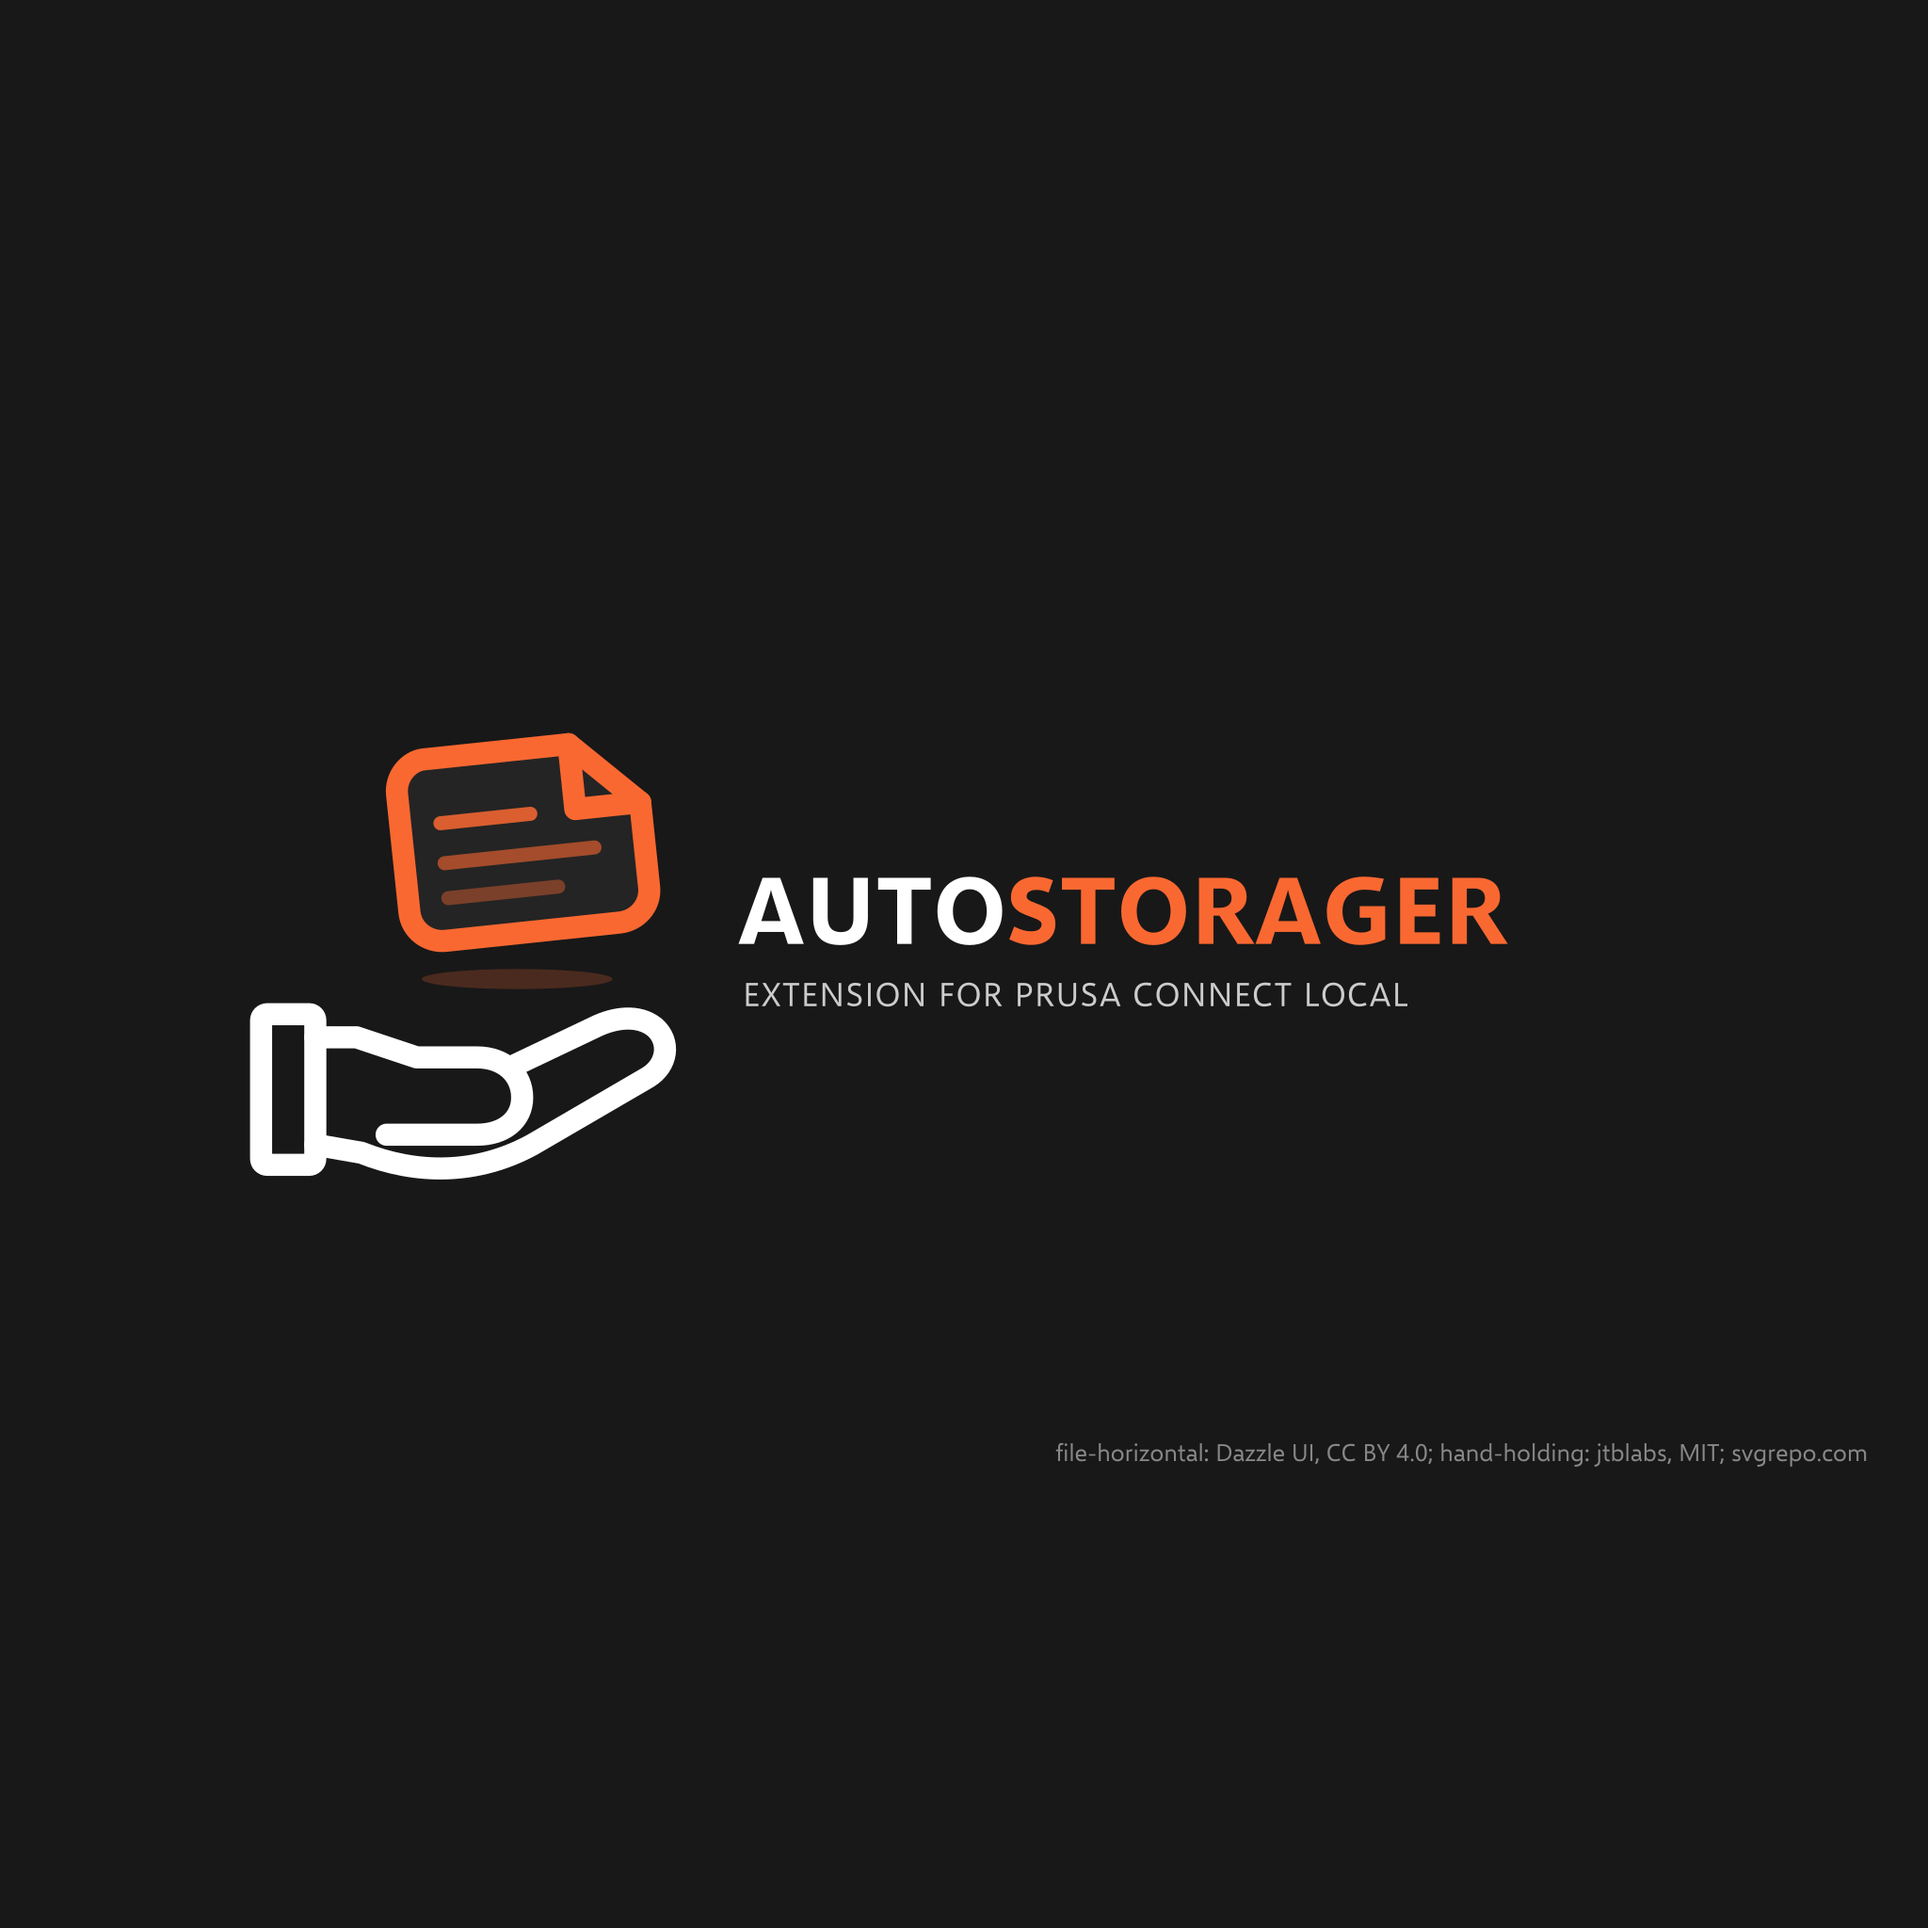
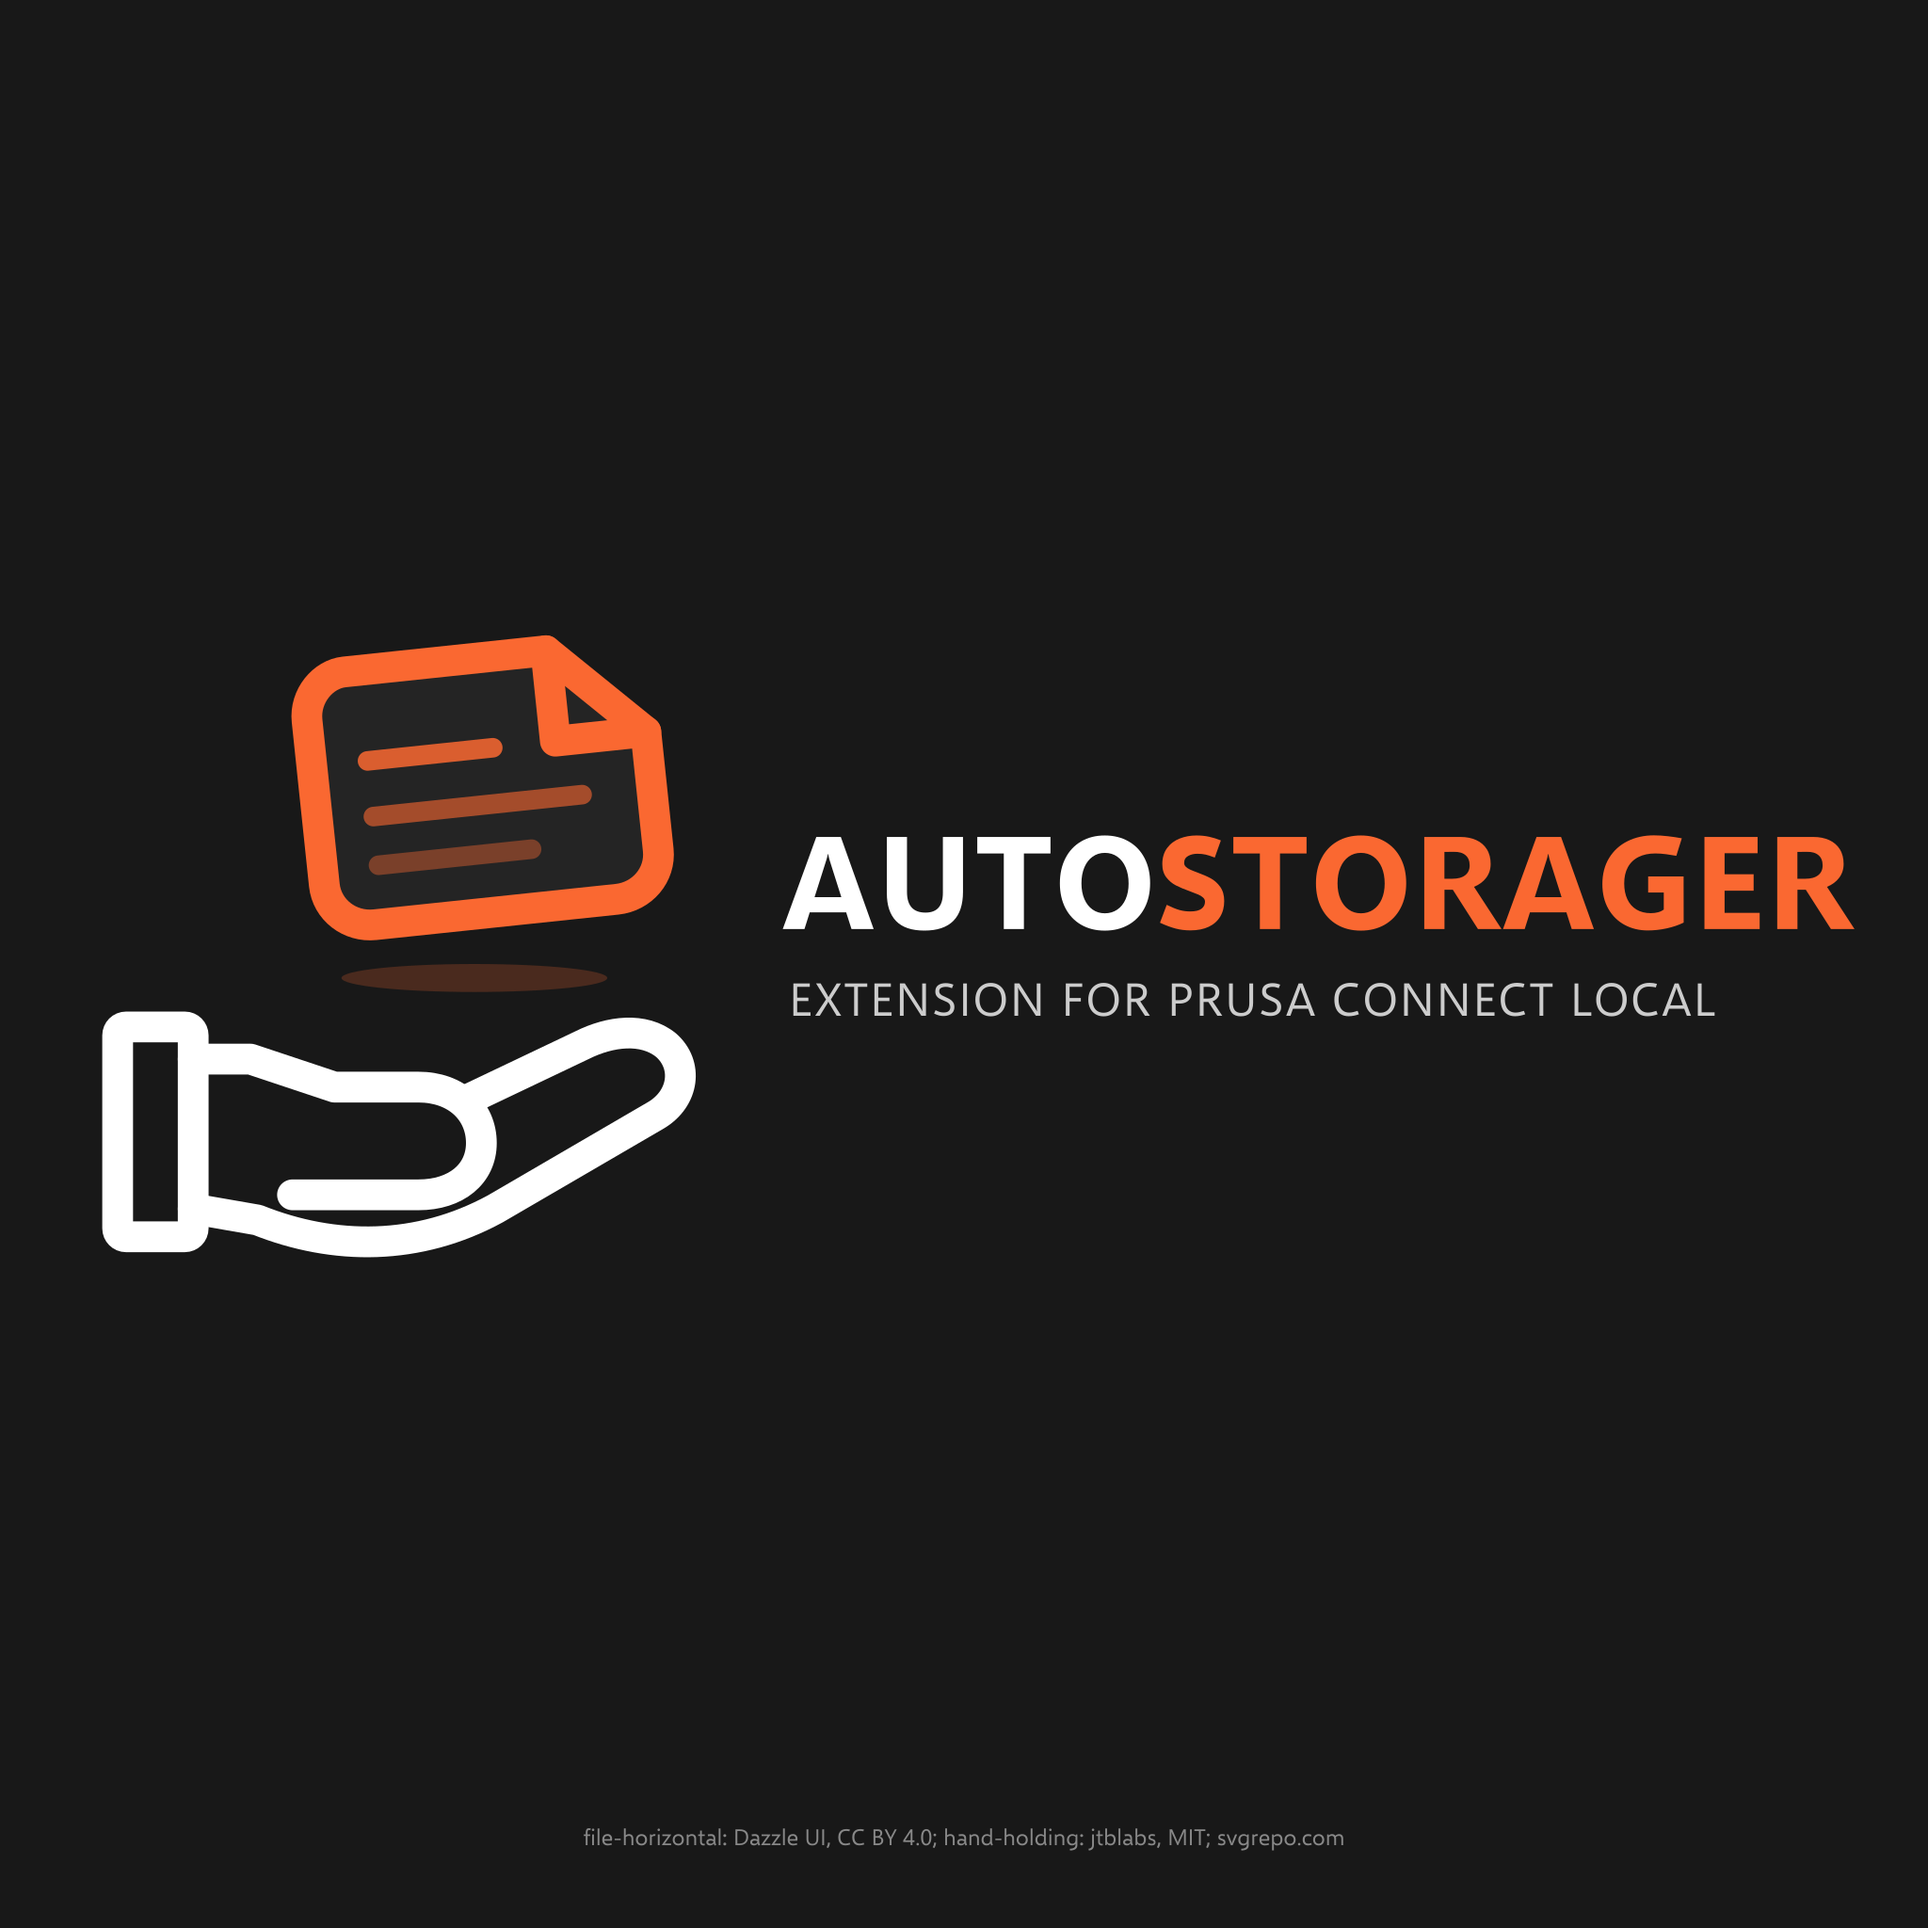
Enlarge the marketplace image
The 1:1 image keeps the lettering beside the icons, cropped to the
composition and scaled to fill the width.

diff --git a/artwork/CREDITS.md b/artwork/CREDITS.md
@@ -21,6 +21,7 @@ anyway. Both icons were recoloured and combined, which the credit line says.
 autostorager_github.svg  1920x1080  the GitHub banner, used in the README
 logo.svg                  512x512   the mark alone
 logo.png                  512x512   the same mark, rendered
-marketplace.png          2048x2048  the 1:1 marketplace upload, lossless, 83 KB
+marketplace.png          2048x2048  the 1:1 marketplace upload, lossless, 100 KB
+autostorager-1x1.png     2048x2048  the rendered 1:1 image, same as marketplace.png
 autostorager-1x1.svg     2048x2048  the 16:9 composition on a square canvas
 ```
